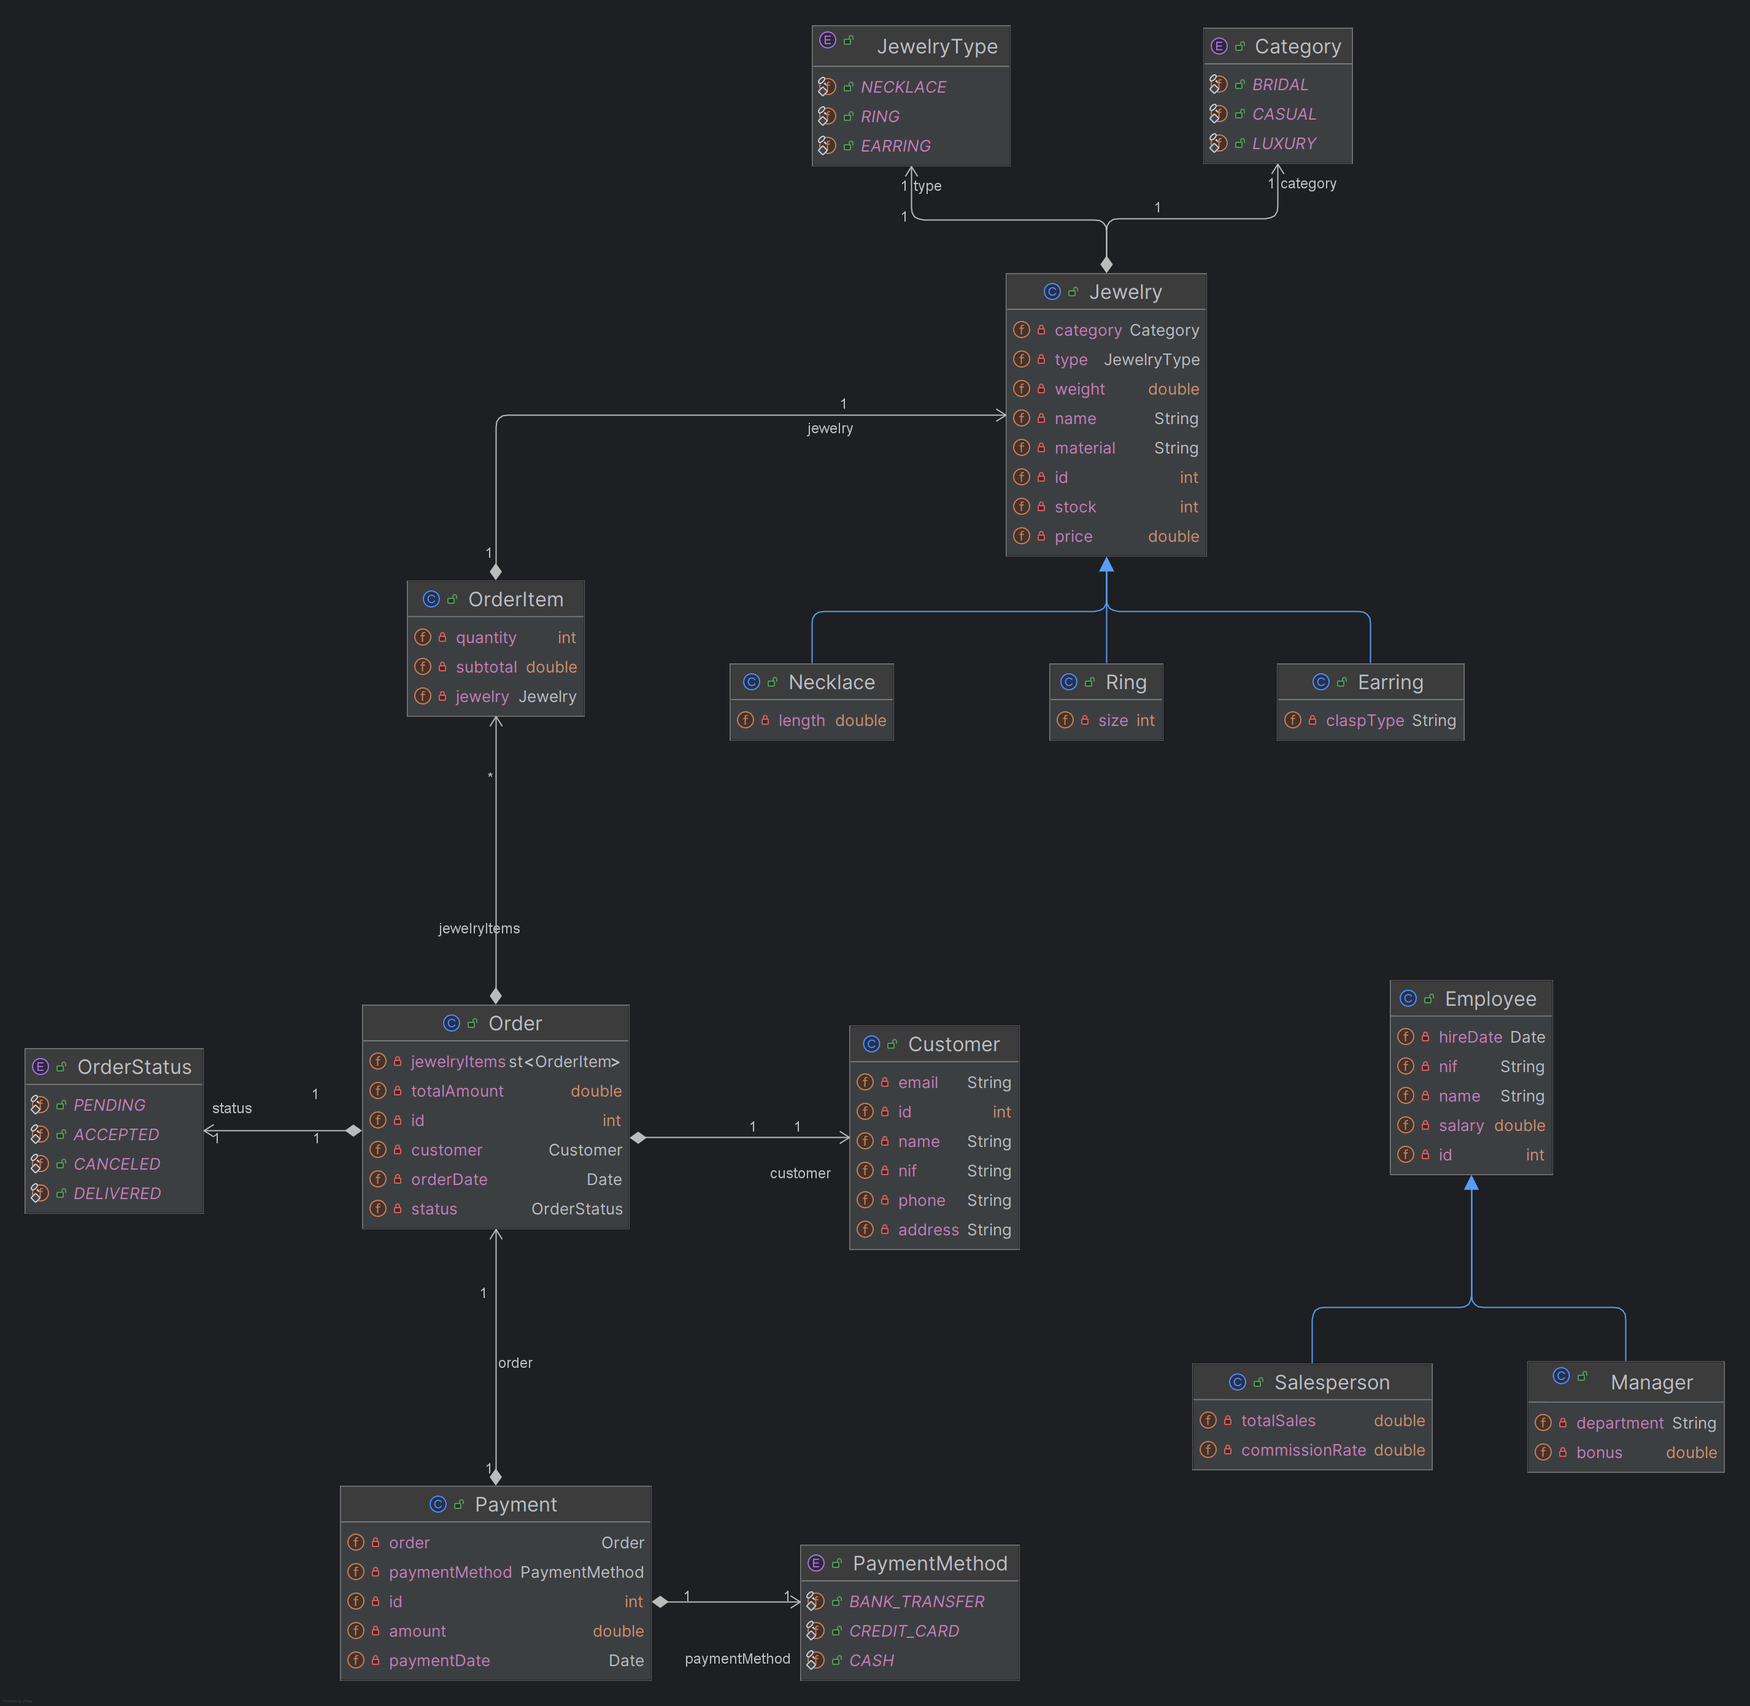
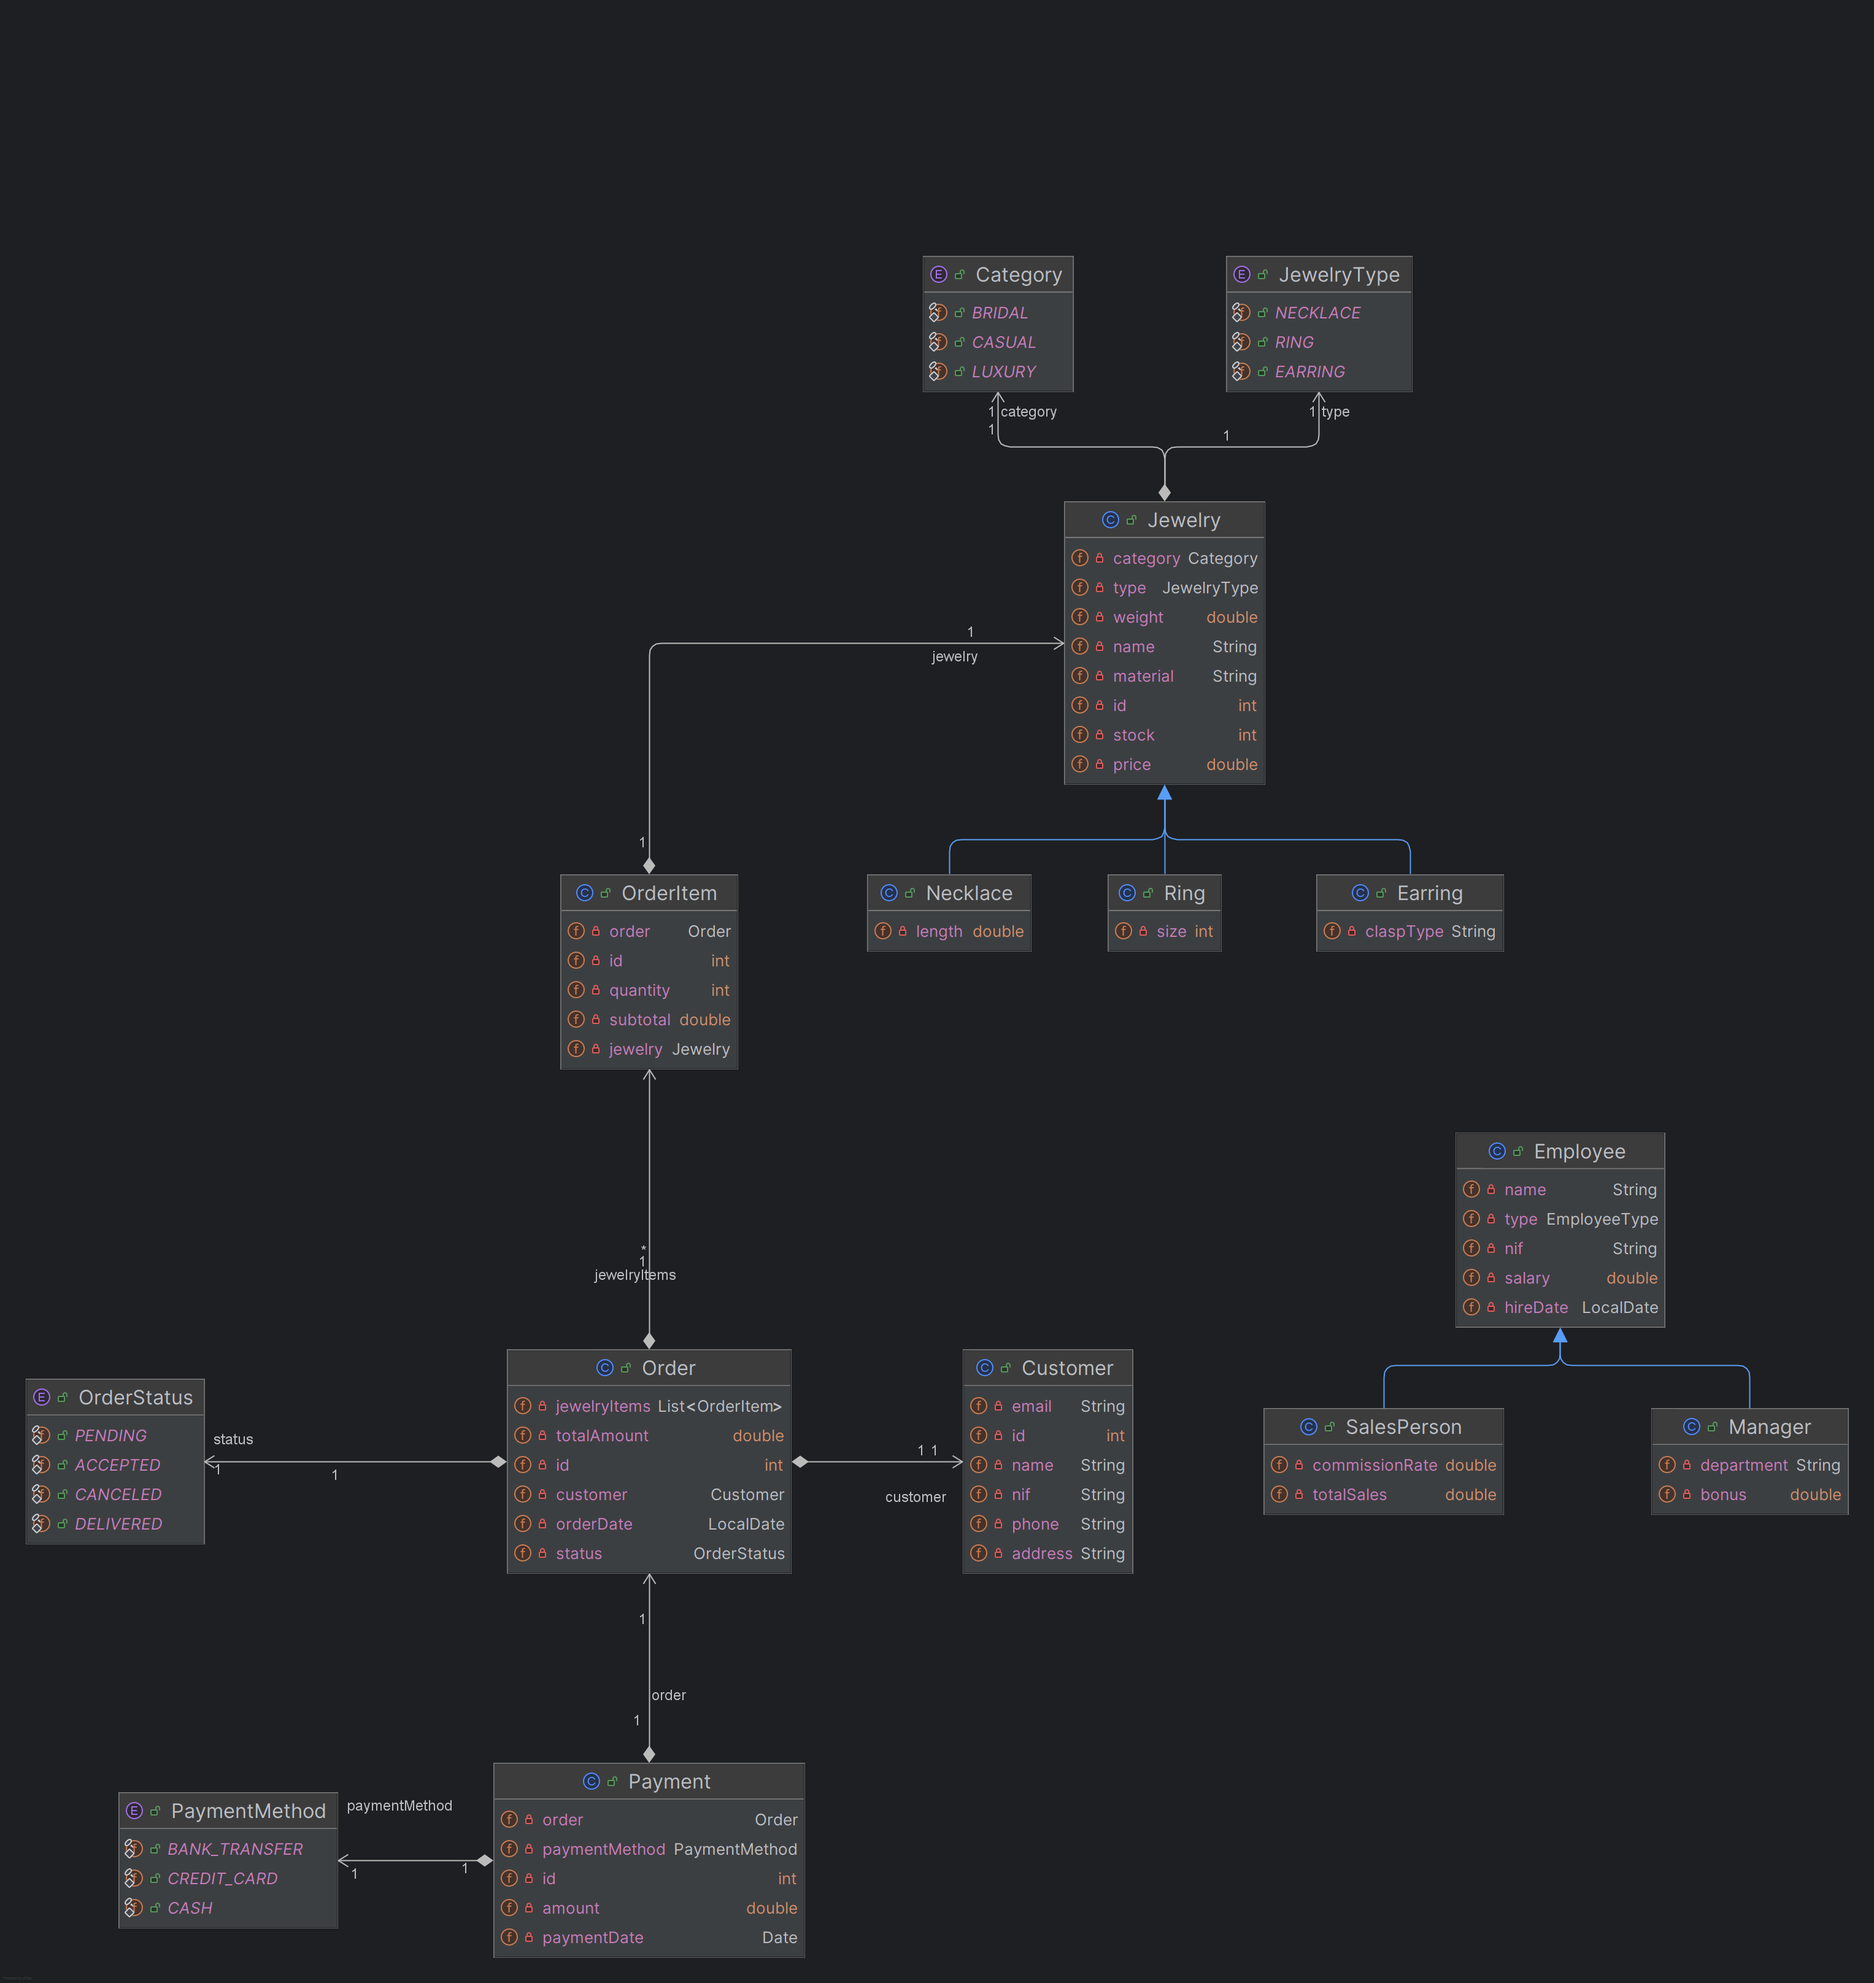
- Implementar CRUD para OrderItem - Atualizar modelo UML

diff --git a/src/pt/ipp/estg/doa/store/utils/CSVUtilOrderItem.java b/src/pt/ipp/estg/doa/store/utils/CSVUtilOrderItem.java
@@ -1,0 +1,86 @@
+package pt.ipp.estg.doa.store.utils;
+
+import pt.ipp.estg.doa.store.customers.Customer;
+import pt.ipp.estg.doa.store.jewelry.Jewelry;
+import pt.ipp.estg.doa.store.orders.Order;
+import pt.ipp.estg.doa.store.orders.OrderItem;
+import pt.ipp.estg.doa.store.orders.OrderStatus;
+
+import java.io.BufferedWriter;
+import java.io.IOException;
+import java.nio.file.Files;
+import java.nio.file.Path;
+import java.time.LocalDate;
+import java.time.format.DateTimeFormatter;
+import java.util.ArrayList;
+import java.util.List;
+import java.util.Locale;
+import java.util.stream.Collectors;
+
+public class CSVUtilOrderItem implements Persistable<OrderItem> {
+
+    private static final String PATH = "src/pt/ipp/estg/doa/store/utils/csv/";
+    private static final String CSV_ORDER_ITEM_FILE_NAME = PATH + "order_item.csv";
+    private static final DateTimeFormatter FORMATTER = DateTimeFormatter.ofPattern("yyyy-MM-dd");
+
+    /**
+     * Carregar dados de OrderItem a partir do CSV.
+     *
+     * @return
+     */
+    public List<OrderItem> loadData() {
+        List<OrderItem> orderList = new ArrayList<>();
+        try {
+            orderList = Files.lines(Path.of(CSV_ORDER_ITEM_FILE_NAME))
+                    .skip(1) // skip header
+                    .map(line -> line.split(","))
+                    .map(column ->
+                        new OrderItem(
+                            Integer.parseInt(column[0]),
+                            new Order(Integer.parseInt(column[1])),
+                            new Jewelry(Integer.parseInt(column[2])),
+                            Integer.parseInt(column[3]),
+                            Double.parseDouble(column[4])))
+                    .collect(Collectors.toList());
+
+        } catch (IOException e){
+            throw new RuntimeException(e);
+        }
+        return orderList;
+    }
+
+    /**
+     * Sobrescrever arquivo CSV com nova colecao atualizada recebido como parametro.
+     *
+     * @param orders
+     */
+    public void updateData(List<OrderItem> orders) {
+
+        Path original = Path.of(CSV_ORDER_ITEM_FILE_NAME);
+        Path temp = Path.of(CSV_ORDER_ITEM_FILE_NAME + ".tmp");
+
+        try (BufferedWriter writer = Files.newBufferedWriter(temp)) {
+            // header
+            writer.write("id,orderId,jewelryId,quantity,subtotal");
+            writer.newLine();
+
+            for (OrderItem orderItem: orders) {
+                writer.write(String.format(Locale.US, "%d,%d,%d,%d,%.2f",
+                    orderItem.getId(),
+                        orderItem.getOrder().getId(),
+                        orderItem.getJewelry().getId(),
+                        orderItem.getQuantity(),
+                        orderItem.getSubtotal()
+                ));
+                writer.newLine();
+            }
+
+            Files.deleteIfExists(original);
+            Files.move(temp, original);
+
+        } catch (IOException e) {
+            throw new RuntimeException(e);
+        }
+
+    }
+}

diff --git a/src/pt/ipp/estg/doa/store/Main.java b/src/pt/ipp/estg/doa/store/Main.java
@@ -2,15 +2,10 @@ package pt.ipp.estg.doa.store;
 
 import pt.ipp.estg.doa.store.customers.Customer;
 import pt.ipp.estg.doa.store.customers.CustomerManager;
-import pt.ipp.estg.doa.store.dto.CustomerDTO;
-import pt.ipp.estg.doa.store.dto.EmployeeDTO;
-import pt.ipp.estg.doa.store.dto.JewelryDTO;
-import pt.ipp.estg.doa.store.dto.OrderDTO;
+import pt.ipp.estg.doa.store.dto.*;
 import pt.ipp.estg.doa.store.employees.*;
 import pt.ipp.estg.doa.store.jewelry.*;
-import pt.ipp.estg.doa.store.orders.Order;
-import pt.ipp.estg.doa.store.orders.OrderManager;
-import pt.ipp.estg.doa.store.orders.OrderStatus;
+import pt.ipp.estg.doa.store.orders.*;
 
 import java.time.LocalDate;
 import java.time.format.DateTimeFormatter;
@@ -120,5 +115,23 @@ public class Main {
         orderManager.delete(2);
         System.out.println("--- ALL ORDERS UPDATED ---");
         orderManager.findAll().stream().forEach(System.out::println);
+
+
+        OrderItemManager orderItemManager = new OrderItemManager();
+        System.out.println("\n\n***************** ORDER ITEM *******************");
+        System.out.println("--- ADD ORDER ITEM ---");
+        orderItemManager.add(new OrderItem(0, new Order(1), new Jewelry(1), 1000, 5555.55));
+        System.out.println("--- ALL ORDER ITEMS ---");
+        orderItemManager.findAll().stream().forEach(System.out::println);
+        System.out.println("--- ORDER ITEM BY ID ---");
+        System.out.println(orderItemManager.findById(1));
+        System.out.println("--- UPDATE ORDER ITEM ---");
+        OrderItemDTO orderItemDTO = new OrderItemDTO();
+        orderItemDTO.setSubtotal(1111.11);
+        orderItemManager.update(1, orderItemDTO);
+        System.out.println("--- DELETE ORDER ITEM ---");
+        orderItemManager.delete(2);
+        System.out.println("--- ALL ORDER ITEMS UPDATED ---");
+        orderItemManager.findAll().stream().forEach(System.out::println);
     }
 }

diff --git a/src/pt/ipp/estg/doa/store/orders/OrderItem.java b/src/pt/ipp/estg/doa/store/orders/OrderItem.java
@@ -1,12 +1,61 @@
 package pt.ipp.estg.doa.store.orders;
 
+import pt.ipp.estg.doa.store.dto.Dto;
+import pt.ipp.estg.doa.store.dto.OrderItemDTO;
 import pt.ipp.estg.doa.store.jewelry.Jewelry;
+import pt.ipp.estg.doa.store.utils.Entity;
 
-public class OrderItem {
+public class OrderItem extends Entity {
 
+    private int id;
+    private Order order;
     private Jewelry jewelry;
     private int quantity;
     private double subtotal;
+
+    public OrderItem(int id, Order order, Jewelry jewelry, int quantity, double subtotal) {
+        this.id = id;
+        this.order = order;
+        this.jewelry = jewelry;
+        this.quantity = quantity;
+        this.subtotal = subtotal;
+    }
+
+    @Override
+    public String toString() {
+        return "OrderItem{" +
+                "id=" + id +
+                ", order=" + (order != null ? order.getId() : null) +
+                ", jewelry=" + (jewelry !=  null ? jewelry.getId() : null) +
+                ", quantity=" + quantity +
+                ", subtotal=" + subtotal +
+                '}';
+    }
+
+    @Override
+    public <T extends Dto> void update(T dto) {
+        OrderItemDTO  orderItemDTO = (OrderItemDTO) dto;
+        if(orderItemDTO.getOrderId() != null) this.setOrder(new Order(orderItemDTO.getId()));
+        if(orderItemDTO.getJewelryId() != null) this.setJewelry(new Jewelry(orderItemDTO.getJewelryId()));
+        if(orderItemDTO.getQuantity() != null) this.setQuantity(orderItemDTO.getQuantity());
+        if(orderItemDTO.getSubtotal() != null) this.setSubtotal(orderItemDTO.getSubtotal());
+    }
+
+    public int getId() {
+        return id;
+    }
+
+    public void setId(int id) {
+        this.id = id;
+    }
+
+    public Order getOrder() {
+        return order;
+    }
+
+    public void setOrder(Order order) {
+        this.order = order;
+    }
 
     public Jewelry getJewelry() {
         return jewelry;

diff --git a/src/pt/ipp/estg/doa/store/dto/OrderItemDTO.java b/src/pt/ipp/estg/doa/store/dto/OrderItemDTO.java
@@ -1,0 +1,50 @@
+package pt.ipp.estg.doa.store.dto;
+
+public class OrderItemDTO extends Dto{
+
+    private Integer id;
+    private Integer orderId;
+    private Integer jewelryId;
+    private Integer quantity;
+    private Double subtotal;
+
+    public Integer getId() {
+        return id;
+    }
+
+    public void setId(Integer id) {
+        this.id = id;
+    }
+
+    public Integer getOrderId() {
+        return orderId;
+    }
+
+    public void setOrderId(Integer orderId) {
+        this.orderId = orderId;
+    }
+
+    public Integer getJewelryId() {
+        return jewelryId;
+    }
+
+    public void setJewelryId(Integer jewelryId) {
+        this.jewelryId = jewelryId;
+    }
+
+    public Integer getQuantity() {
+        return quantity;
+    }
+
+    public void setQuantity(Integer quantity) {
+        this.quantity = quantity;
+    }
+
+    public Double getSubtotal() {
+        return subtotal;
+    }
+
+    public void setSubtotal(Double subtotal) {
+        this.subtotal = subtotal;
+    }
+}

diff --git a/src/pt/ipp/estg/doa/store/utils/CSVUtilCustomer.java b/src/pt/ipp/estg/doa/store/utils/CSVUtilCustomer.java
@@ -1,16 +1,11 @@
 package pt.ipp.estg.doa.store.utils;
 
 import pt.ipp.estg.doa.store.customers.Customer;
-import pt.ipp.estg.doa.store.employees.Employee;
-import pt.ipp.estg.doa.store.employees.EmployeeType;
-import pt.ipp.estg.doa.store.employees.Manager;
-import pt.ipp.estg.doa.store.employees.SalesPerson;
 
 import java.io.BufferedWriter;
 import java.io.IOException;
 import java.nio.file.Files;
 import java.nio.file.Path;
-import java.time.format.DateTimeFormatter;
 import java.util.ArrayList;
 import java.util.List;
 import java.util.Locale;

diff --git a/src/pt/ipp/estg/doa/store/orders/Order.java b/src/pt/ipp/estg/doa/store/orders/Order.java
@@ -25,11 +25,15 @@ public class Order extends Entity {
         this.status = status;
     }
 
+    public Order(int id) {
+        this.id = id;
+    }
+
     @Override
     public String toString() {
         return "Order{" +
                 "id=" + id +
-                ", customer=" + customer +
+                ", customer=" + (customer != null ? customer.getId() : null) +
                 ", orderDate=" + orderDate +
                 ", totalAmount=" + totalAmount +
                 ", status=" + status +

diff --git a/src/pt/ipp/estg/doa/store/orders/OrderItemManager.java b/src/pt/ipp/estg/doa/store/orders/OrderItemManager.java
@@ -1,0 +1,11 @@
+package pt.ipp.estg.doa.store.orders;
+
+import pt.ipp.estg.doa.store.utils.AbstractManager;
+import pt.ipp.estg.doa.store.utils.CSVUtilOrderItem;
+
+public class OrderItemManager extends AbstractManager<OrderItem> {
+
+    public OrderItemManager() {
+        super(new CSVUtilOrderItem());
+    }
+}

diff --git a/src/pt/ipp/estg/doa/store/customers/CustomerManager.java b/src/pt/ipp/estg/doa/store/customers/CustomerManager.java
@@ -2,7 +2,6 @@ package pt.ipp.estg.doa.store.customers;
 
 import pt.ipp.estg.doa.store.utils.AbstractManager;
 import pt.ipp.estg.doa.store.utils.CSVUtilCustomer;
-import pt.ipp.estg.doa.store.utils.Persistable;
 
 public class CustomerManager extends AbstractManager<Customer> {
 

diff --git a/src/pt/ipp/estg/doa/store/dto/CustomerDTO.java b/src/pt/ipp/estg/doa/store/dto/CustomerDTO.java
@@ -9,14 +9,6 @@ public class CustomerDTO extends Dto{
     private String address;
     private String phone;
 
-    public CustomerDTO() {
-
-    }
-
-    public CustomerDTO(int i) {
-        super();
-    }
-
     public Integer getId() {
         return id;
     }

diff --git a/src/pt/ipp/estg/doa/store/jewelry/Jewelry.java b/src/pt/ipp/estg/doa/store/jewelry/Jewelry.java
@@ -26,6 +26,10 @@ public class Jewelry extends Entity {
         this.category = category;
     }
 
+    public Jewelry(int id) {
+        this.id = id;
+    }
+
     @Override
     public String toString() {
         return "Jewelry{" +
